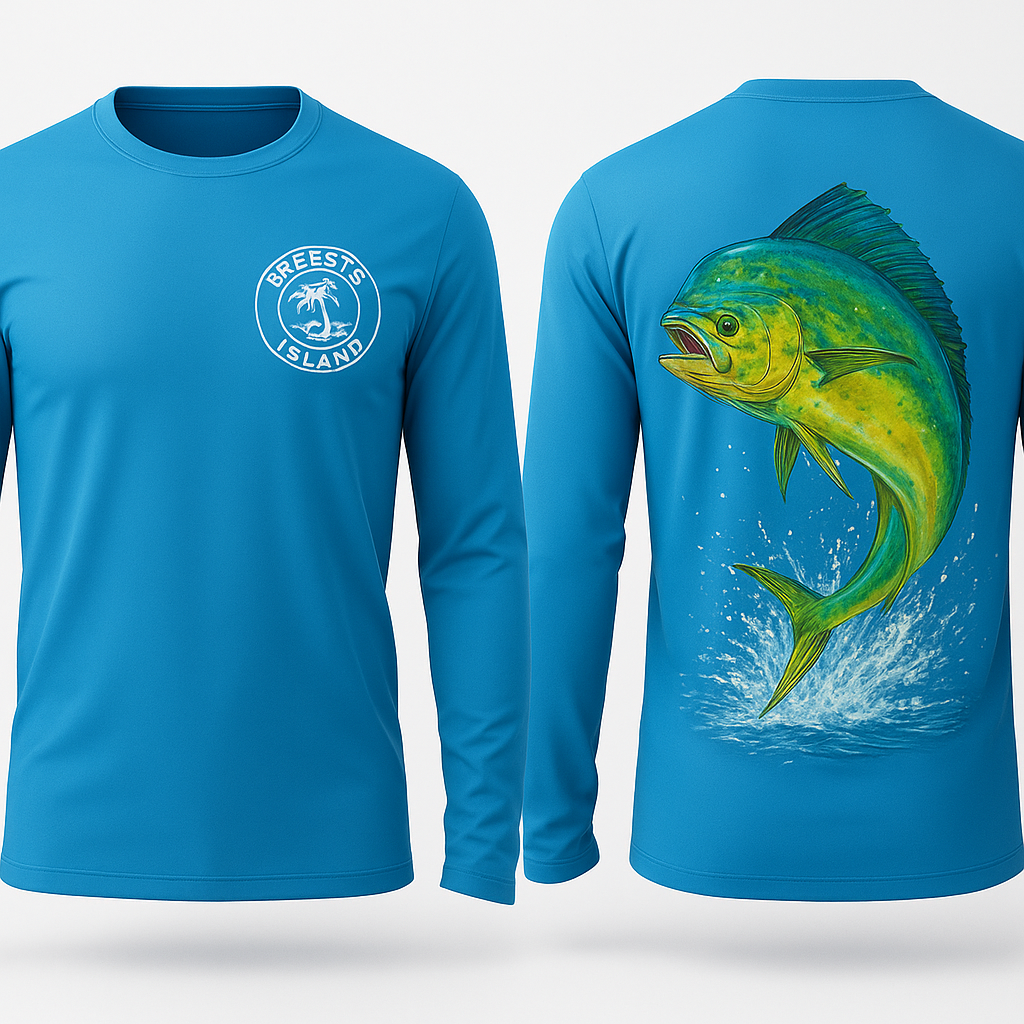
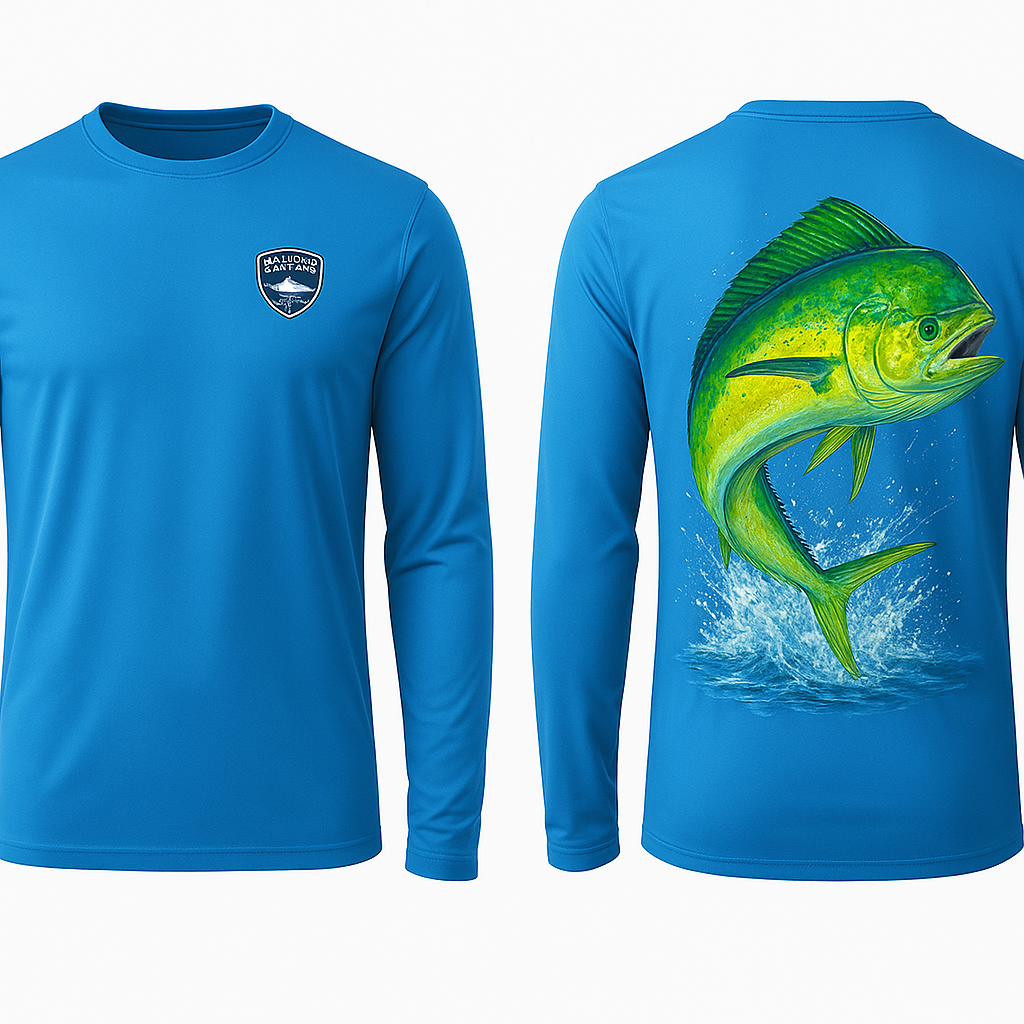
Added 5 Breesy Edition performance LS shirts

diff --git a/index.html b/index.html
@@ -387,6 +387,76 @@
                         <a href="#" class="btn-primary btn-small">Pre-Order Now</a>
                     </div>
                 </div>
+
+                <!-- Perf 9: Mangrove Run Breesy -->
+                <div class="product-card">
+                    <div class="product-image">
+                        <img src="assets/performance_breesy_mangrove_run.png" alt="Mangrove Run Breesy LS">
+                        <div class="product-badge">Breesy Edition</div>
+                    </div>
+                    <div class="product-info">
+                        <h3>Mangrove Run Breesy LS</h3>
+                        <p class="product-desc">Breesy at the bow of a skiff running through mangroves. Signature crest on front. Seafoam green fabric.</p>
+                        <div class="product-price">$75</div>
+                        <a href="#" class="btn-primary btn-small">Pre-Order Now</a>
+                    </div>
+                </div>
+
+                <!-- Perf 10: Sunset Pier Breesy -->
+                <div class="product-card">
+                    <div class="product-image">
+                        <img src="assets/performance_breesy_sunset_pier.png" alt="Sunset Pier Breesy LS">
+                        <div class="product-badge">Breesy Edition</div>
+                    </div>
+                    <div class="product-info">
+                        <h3>Sunset Pier Breesy LS</h3>
+                        <p class="product-desc">Breesy sitting on the pier at sunset. Vintage sign logo on front. White technical fabric.</p>
+                        <div class="product-price">$75</div>
+                        <a href="#" class="btn-primary btn-small">Pre-Order Now</a>
+                    </div>
+                </div>
+
+                <!-- Perf 11: Tiki Bar Breesy -->
+                <div class="product-card">
+                    <div class="product-image">
+                        <img src="assets/performance_breesy_tiki_bar.png" alt="Tiki Bar Breesy LS">
+                        <div class="product-badge">Breesy Edition</div>
+                    </div>
+                    <div class="product-info">
+                        <h3>Tiki Bar Breesy LS</h3>
+                        <p class="product-desc">Breesy relaxing at the Tiki Bar. Signature logo on front. Heather grey fabric.</p>
+                        <div class="product-price">$75</div>
+                        <a href="#" class="btn-primary btn-small">Pre-Order Now</a>
+                    </div>
+                </div>
+
+                <!-- Perf 12: Captain Breesy -->
+                <div class="product-card">
+                    <div class="product-image">
+                        <img src="assets/performance_breesy_captain.png" alt="Captain Breesy LS">
+                        <div class="product-badge">Breesy Edition</div>
+                    </div>
+                    <div class="product-info">
+                        <h3>Captain Breesy LS</h3>
+                        <p class="product-desc">Captain Breesy in his hat on the open water. Signature crest on front. Navy blue fabric.</p>
+                        <div class="product-price">$75</div>
+                        <a href="#" class="btn-primary btn-small">Pre-Order Now</a>
+                    </div>
+                </div>
+
+                <!-- Perf 13: Mangrove Fishing Breesy -->
+                <div class="product-card">
+                    <div class="product-image">
+                        <img src="assets/performance_breesy_fishing.png" alt="Mangrove Fishing Breesy LS">
+                        <div class="product-badge">Breesy Edition</div>
+                    </div>
+                    <div class="product-info">
+                        <h3>Mangrove Fishing Breesy LS</h3>
+                        <p class="product-desc">Breesy on a fishing skiff in the mangroves. Minimalist logo on front. Light blue fabric.</p>
+                        <div class="product-price">$75</div>
+                        <a href="#" class="btn-primary btn-small">Pre-Order Now</a>
+                    </div>
+                </div>
             </div>
         </div>
     </section>